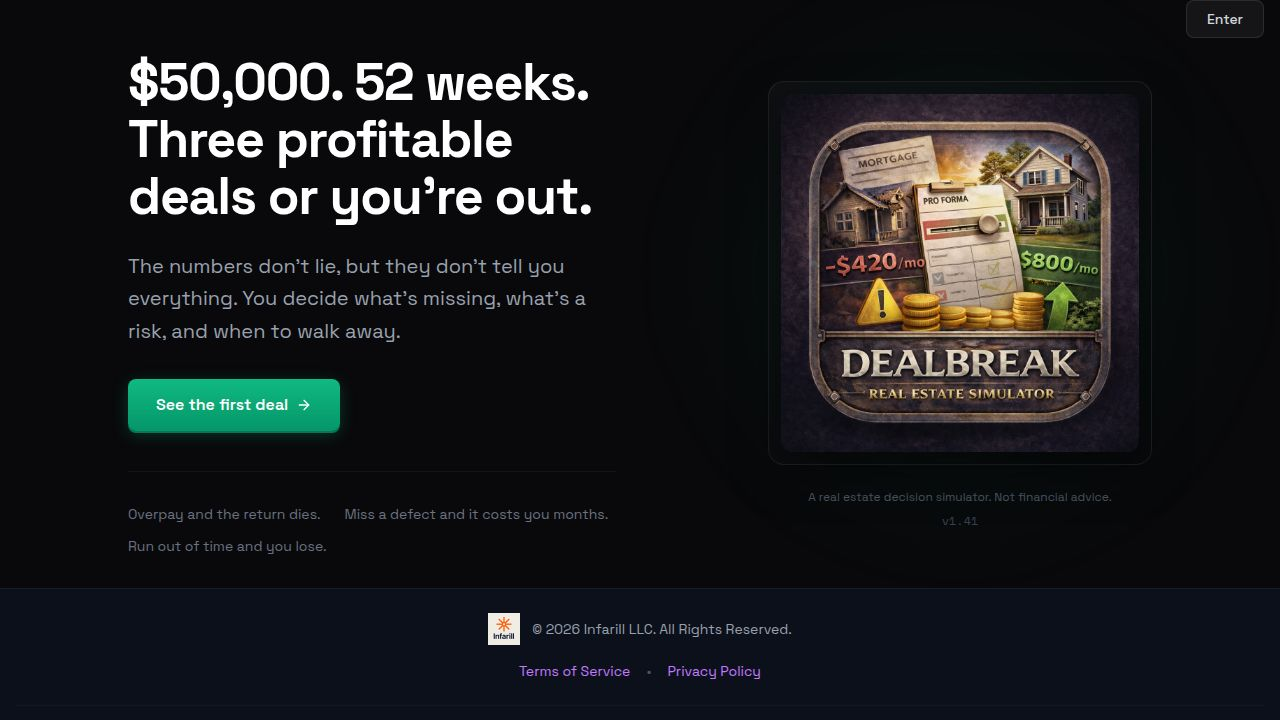
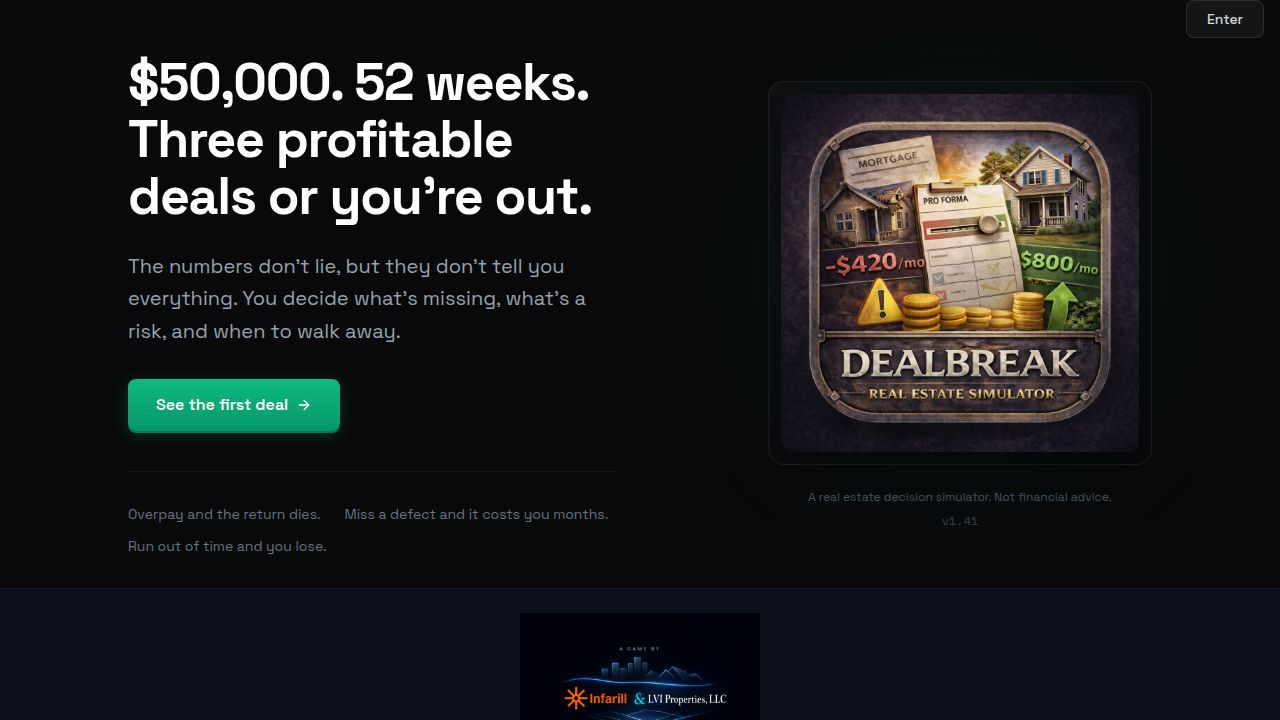
Update website footer with new signature and copyright information
Replace existing footer logo and copyright text with a new signature image and updated copyright notice, including LVI Properties LLC.

Replit-Commit-Author: Agent
Replit-Commit-Session-Id: dbff13d0-6931-4d1f-90c4-59460a5d5687
Replit-Commit-Checkpoint-Type: full_checkpoint
Replit-Commit-Event-Id: a8e9a01f-d601-48bf-ad55-f8265e91f3d0
Replit-Commit-Screenshot-Url: https://storage.googleapis.com/screenshot-production-us-central1/ee26b18d-8f3c-400a-b0f3-75f8f272fa91/dbff13d0-6931-4d1f-90c4-59460a5d5687/fwe2OAV
Replit-Helium-Checkpoint-Created: true

Changed region(s): [[0.4062, 0.9167, 0.5938, 1.0], [0.375, 0.825, 0.625, 0.9167]]

diff --git a/client/src/components/Footer.tsx b/client/src/components/Footer.tsx
@@ -1,64 +1,30 @@
 import { Link } from "wouter";
-import infarillLogo from "../assets/infarill-logo.png";
+import signatureImage from "@assets/244711DD-4A02-45F4-AF84-DB41F02E853B_1768194434457.png";
 
 export default function Footer() {
   return (
     <footer className="mt-auto py-6 px-4 border-t border-slate-800/50 bg-slate-900/50">
       <div className="max-w-7xl mx-auto">
-        <div className="flex flex-col sm:flex-row items-center justify-center gap-3 text-center mb-4">
+        <div className="flex flex-col items-center justify-center gap-6">
           <img
-            src={infarillLogo}
-            alt="Infarill"
-            className="h-8 w-auto"
+            src={signatureImage}
+            alt="A Game By Infarill & LVI Properties, LLC"
+            className="h-32 sm:h-40 w-auto"
           />
-          <span className="text-gray-400 text-sm">
-            &copy; {new Date().getFullYear()} Infarill LLC & LVI Properties, LLC. All Rights Reserved.
-          </span>
-        </div>
-        <div className="flex flex-wrap items-center justify-center gap-4 text-sm">
-          <Link href="/terms" className="text-purple-400 hover:text-purple-300 transition-colors">
-            Terms of Service
-          </Link>
-          <span className="text-gray-600">•</span>
-          <Link href="/privacy" className="text-purple-400 hover:text-purple-300 transition-colors">
-            Privacy Policy
-          </Link>
-        </div>
-        
-        {/* Signature attribution with refined subtle blue neon effect */}
-        <div className="mt-6 pt-5 border-t border-slate-800/30">
-          <div className="flex flex-col items-center justify-center gap-2">
-            <span className="text-gray-500 text-[10px] uppercase tracking-[0.25em] font-medium">
-              a game by
-            </span>
-            <div className="flex flex-col sm:flex-row items-center gap-1 sm:gap-3">
-              <span 
-                className="text-white/90 text-xl sm:text-2xl tracking-tight"
-                style={{ 
-                  fontFamily: '"Cormorant Garamond", Georgia, serif',
-                  fontWeight: 500,
-                  fontStyle: 'italic',
-                  textShadow: '0 0 8px rgba(96,165,250,0.4), 0 0 2px rgba(96,165,250,0.6)',
-                  letterSpacing: '-0.02em',
-                }}
-              >
-                Infarill LLC
-              </span>
-              <span className="text-blue-400/50 text-lg font-light">&</span>
-              <span 
-                className="text-white/90 text-xl sm:text-2xl tracking-tight"
-                style={{ 
-                  fontFamily: '"Cormorant Garamond", Georgia, serif',
-                  fontWeight: 500,
-                  fontStyle: 'italic',
-                  textShadow: '0 0 8px rgba(96,165,250,0.4), 0 0 2px rgba(96,165,250,0.6)',
-                  letterSpacing: '-0.02em',
-                }}
-              >
-                LVI Properties, LLC
-              </span>
-            </div>
+          
+          <div className="flex flex-wrap items-center justify-center gap-4 text-sm">
+            <Link href="/terms" className="text-purple-400 hover:text-purple-300 transition-colors">
+              Terms of Service
+            </Link>
+            <span className="text-gray-600">•</span>
+            <Link href="/privacy" className="text-purple-400 hover:text-purple-300 transition-colors">
+              Privacy Policy
+            </Link>
           </div>
+          
+          <span className="text-gray-500 text-xs text-center">
+            © 2026 Infarill LLC & LVI Properties, LLC. All Rights Reserved.
+          </span>
         </div>
       </div>
     </footer>
